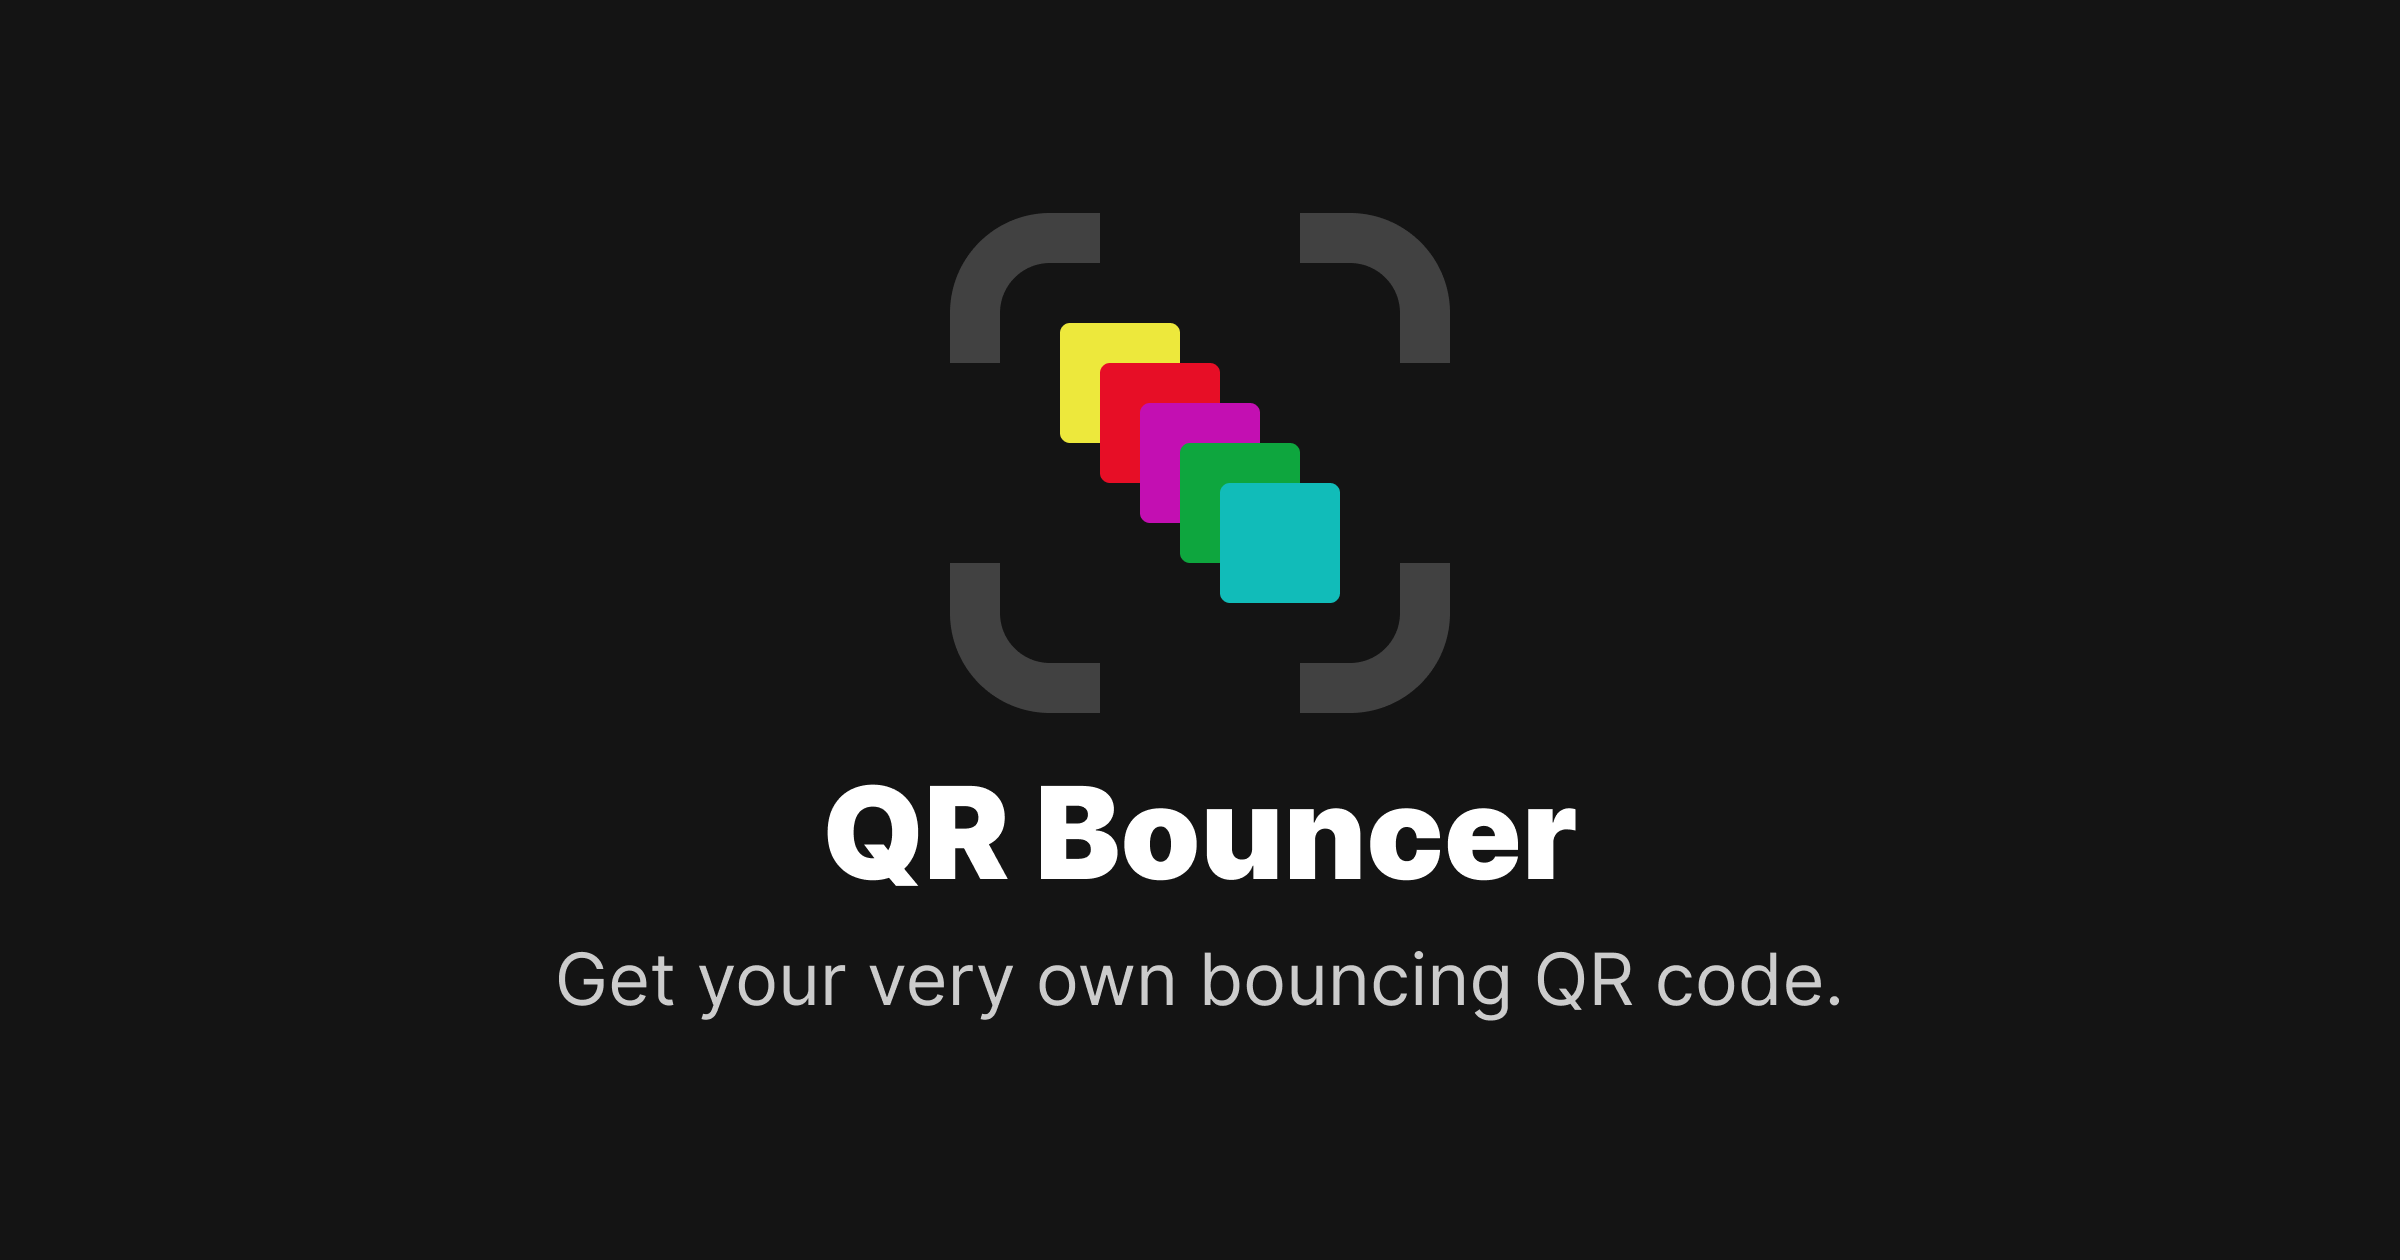
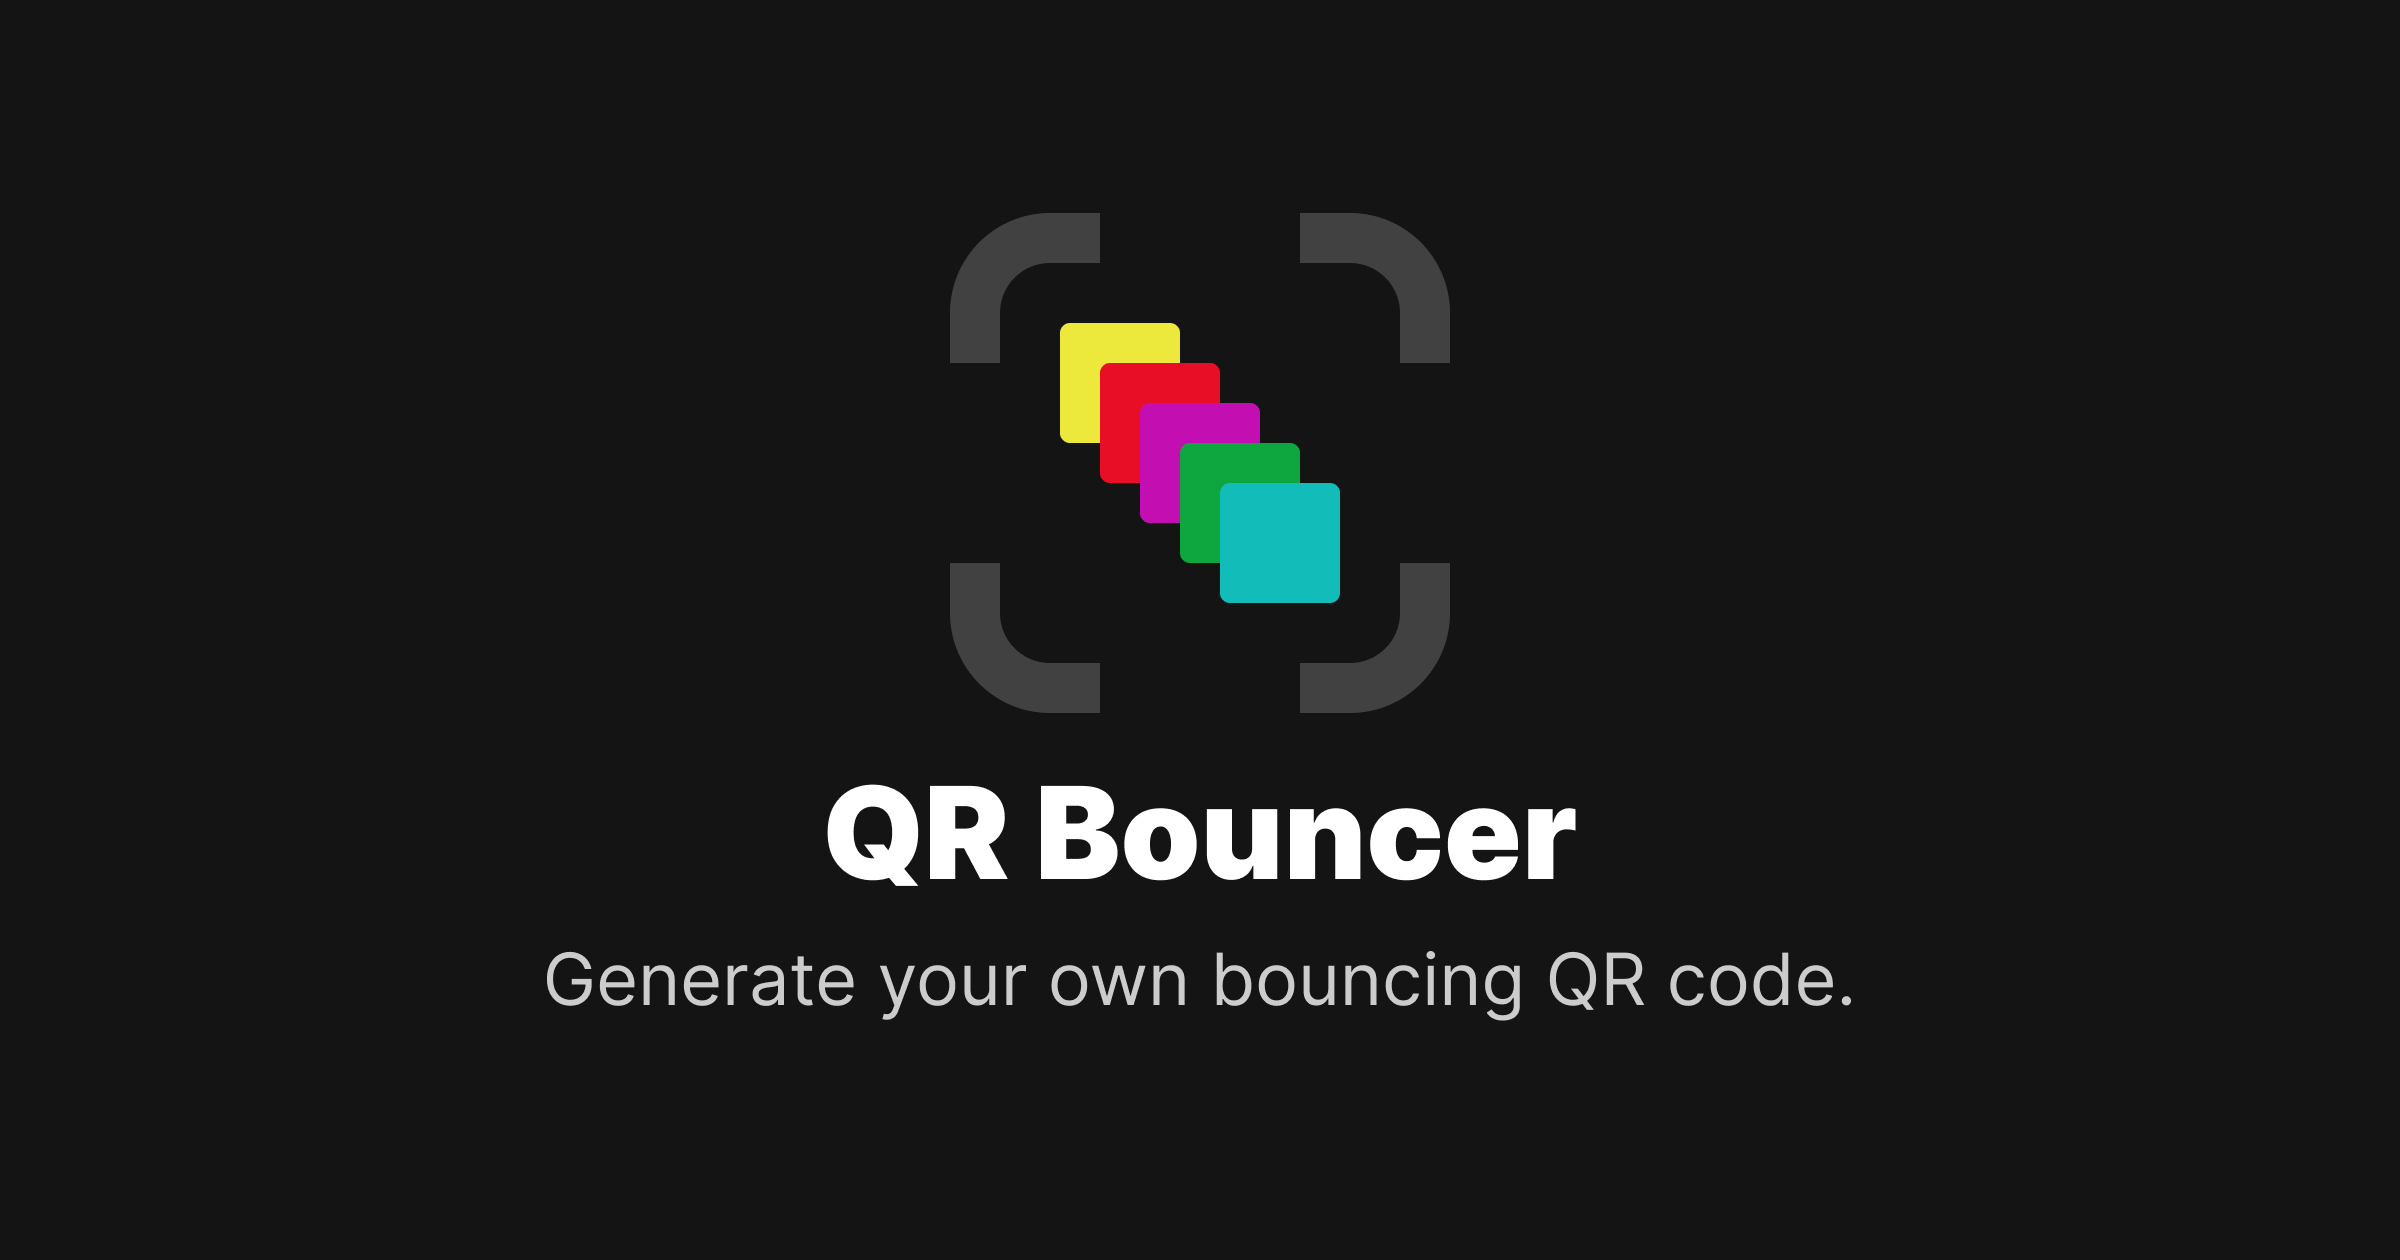
Update images and content

Changed region(s): [[0.2188, 0.7429, 0.7812, 0.8048]]

diff --git a/app.js b/app.js
@@ -122,7 +122,7 @@ function createUI() {
 
         <h1>QR Bouncer</h1>
 
-        <p>Get your very own <a href="https://www.youtube.com/watch?v=eIUD_NE1BDo" target="_blank">bouncing QR code</a>.</p>
+        <p>Generate your own <a href="https://www.youtube.com/watch?v=eIUD_NE1BDo" target="_blank">bouncing QR code</a>.</p>
 
         <hr/>
 

diff --git a/README.md b/README.md
@@ -1,1 +1,7 @@
-# qr-bouncer
+![logo](qr-bouncer.png)
+
+# QR Bouncer
+
+Generate a sharable [Coinbase-style](https://www.youtube.com/watch?v=eIUD_NE1BDo) bouncing QR code.
+
+
